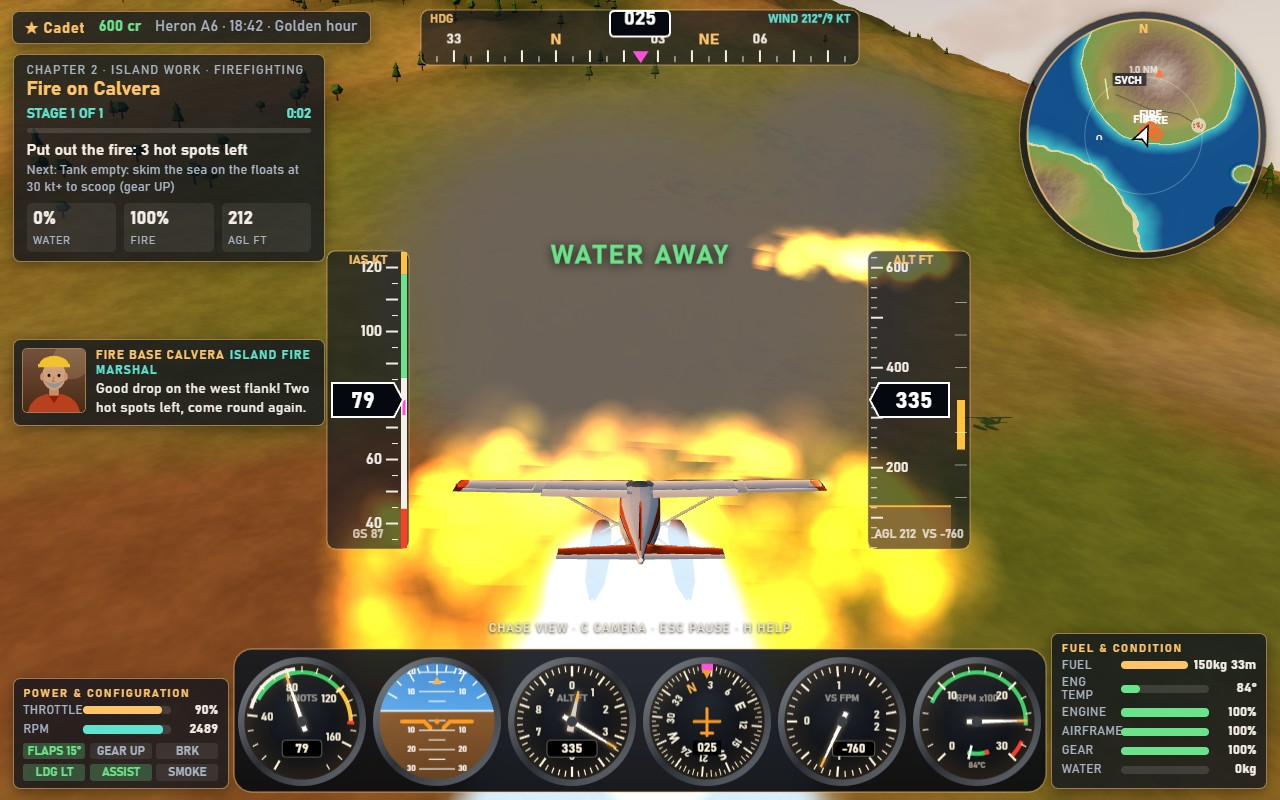
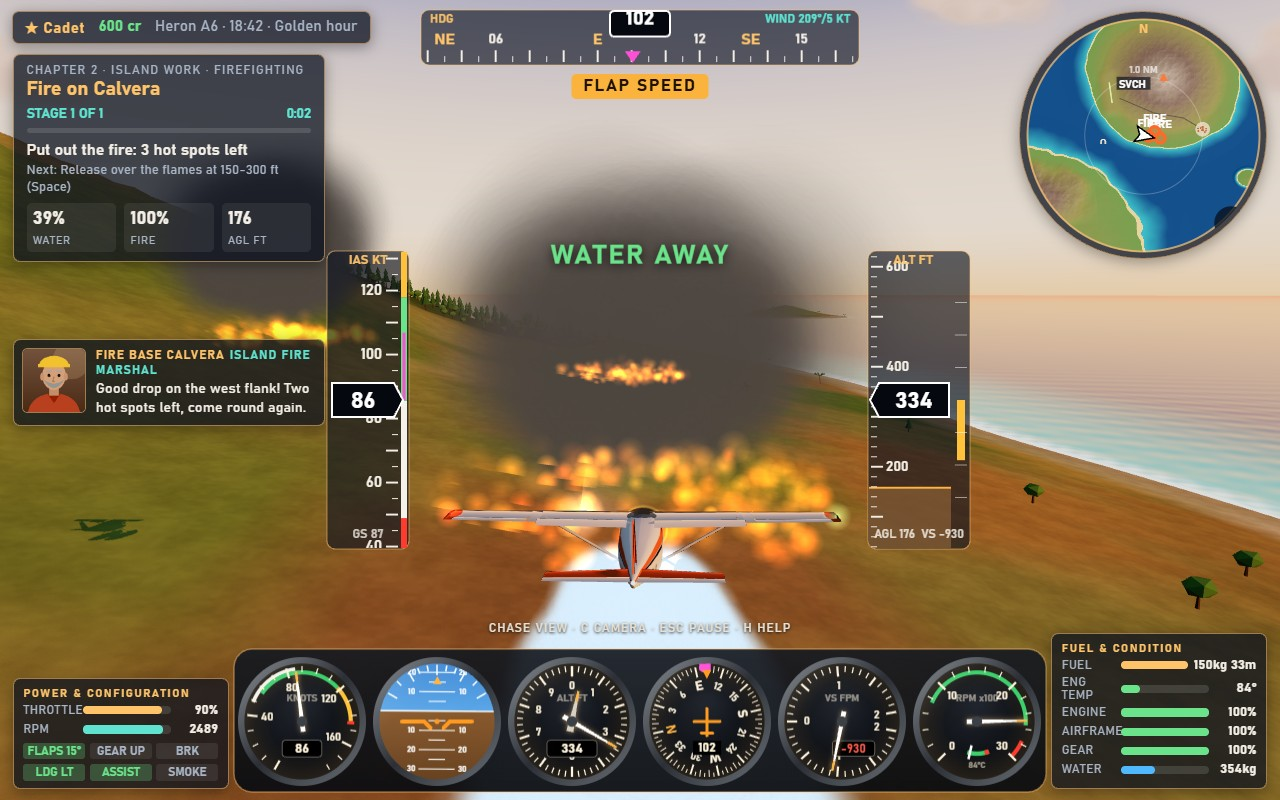
Firefight scene across the slope, softer flames and smoke, night and storm skies, heavier rain

diff --git a/game/src/effects/effectsDirector.js b/game/src/effects/effectsDirector.js
@@ -101,14 +101,15 @@ export function createEffectsDirector(scene, worldEmitters) {
       }
       for (const f of fires) {
         if (f.intensity <= 0.02) continue;
-        const n = dt * 90 * f.intensity;
+        const n = dt * 75 * f.intensity;
         for (let i = 0; i < n; i += 1) {
           const a = random() * Math.PI * 2;
           const r = Math.sqrt(random()) * f.radius;
-          fire.emit(f.x + Math.cos(a) * r, f.y + 3, f.z + Math.sin(a) * r, 0, 5 + random() * 6, 0, { life: 1.1 + random() * 0.9, size: 9 + random() * 9, grow: 3, alpha: 0.9, color: [1, 0.42 + random() * 0.35, 0.1], drag: 0.6, lift: 2.5 });
+          const hot = random();
+          fire.emit(f.x + Math.cos(a) * r, f.y + 2.5, f.z + Math.sin(a) * r, 0, 3.5 + random() * 6, 0, { life: 0.8 + random() * 0.9, size: 4 + random() * 6, grow: 2.5, alpha: 0.55 + hot * 0.25, color: [1, 0.3 + hot * 0.3, 0.05 + hot * 0.06], drag: 0.6, lift: 2.5 });
         }
         if (random() < dt * 12 * f.intensity) {
-          smoke.emit(f.x + (random() - 0.5) * f.radius, f.y + 14, f.z + (random() - 0.5) * f.radius, 0, 8 + random() * 4, 0, { life: 18, size: 14, grow: 8, alpha: 0.34, color: [0.42, 0.38, 0.35], drag: 0.25, lift: 0.4 });
+          smoke.emit(f.x + (random() - 0.5) * f.radius, f.y + 10, f.z + (random() - 0.5) * f.radius, 0, 8 + random() * 4, 0, { life: 18, size: 12, grow: 8, alpha: 0.3, color: [0.46, 0.42, 0.38], drag: 0.25, lift: 0.4 });
         }
       }
       for (const f of flares) {
@@ -123,9 +124,9 @@ export function createEffectsDirector(scene, worldEmitters) {
         }
       }
       if (rain > 0 && camera) {
-        const n = dt * 500 * rain;
+        const n = dt * 900 * rain;
         for (let i = 0; i < n; i += 1) {
-          water.emit(camera.position.x + (random() - 0.5) * 140, camera.position.y + 30 + random() * 20, camera.position.z + (random() - 0.5) * 140, wind.x, -28, wind.z, { life: 2, size: 0.18, grow: 0, alpha: 0.5, color: [0.8, 0.85, 0.95], drag: 0 });
+          water.emit(camera.position.x + (random() - 0.5) * 120, camera.position.y + 20 + random() * 25, camera.position.z + (random() - 0.5) * 120, wind.x, -30, wind.z, { life: 1.6, size: 0.45, grow: 0, alpha: 0.55, color: [0.78, 0.82, 0.9], drag: 0 });
         }
       }
       updateAircraft(body, dt, smokeOn);

diff --git a/game/src/core/screenshotScenes.js b/game/src/core/screenshotScenes.js
@@ -56,17 +56,25 @@ export function stageScreenshot(name, game) {
     const fire = { x: 3250, z: -1780 };
     const ground = Math.max(0, game.world.terrain.heightAt(fire.x, fire.z));
     for (let i = 0; i < 420; i += 1) game.effects.update(STEP, 700, game.wind.state.current, null, game.camera, false);
-    const heading = 25;
+    const heading = 100;
     const h = THREE.MathUtils.degToRad(heading);
-    const start = { x: fire.x - Math.sin(h) * 210, z: fire.z + Math.cos(h) * 210 };
-    session.simulation.start(session.spec, { x: start.x, y: ground + 58, z: start.z, heading, pitch: 2, speed: 43, flaps: 1, throttle: 0.9, gearDown: false }, { birds: false });
+    const start = { x: fire.x - Math.sin(h) * 280, z: fire.z + Math.cos(h) * 280 };
+    session.simulation.start(session.spec, { x: start.x, y: ground + 58, z: start.z, heading, pitch: 2, speed: 41, flaps: 0, throttle: 0.85, gearDown: false }, { birds: false });
     session.body.water = session.spec.waterCapacity;
-    game.controls.controls.throttle = 0.9;
-    Object.assign(game.cameras.chaseFraming, { height: 2.1, distance: 1.25, lookAhead: 60, lookUp: -6 });
-    run(game, 2.4, { 60: ['action'] });
+    game.controls.controls.throttle = 0.85;
+    Object.assign(game.cameras.chaseFraming, { height: 1.55, distance: 1.2, lookAhead: 150, lookUp: -2 });
+    run(game, 2.4, { 105: ['action'] });
     game.hud.radio.say('bruno', 'Good drop on the west flank! Two hot spots left, come round again.', { priority: true });
     game.hud.radio.hold();
     run(game, 0.2);
+  }
+  if (name === 'night' || name === 'storm') {
+    game.startMission(missionById(name === 'night' ? 'night-mail' : 'storm-approach'));
+    game.runner.skipTo(name === 'night' ? 2 : 0);
+    const spec = session.spec;
+    session.simulation.start(spec, { ...approachPlacement(spec, 'marenza', 1, 1400, { flaps: 2 }), throttle: 0.32 }, { birds: false });
+    game.controls.controls.throttle = 0.32;
+    run(game, 3);
   }
   if (game.state === 'flying') game.feedHud(0, true);
   game.render();

diff --git a/game/src/world/skyDome.js b/game/src/world/skyDome.js
@@ -20,13 +20,14 @@ uniform vec3 uHorizon;
 uniform vec3 uHaze;
 uniform float uSunSize;
 uniform float uNight;
+uniform float uWarm;
 varying vec3 vDir;
 #include <common>
 float hash(vec3 p) { return fract(sin(dot(p, vec3(12.9898, 78.233, 37.719))) * 43758.5453); }
 void main() {
   vec3 dir = normalize(vDir);
   float y = dir.y;
-  vec3 cream = mix(uHorizon, vec3(1.0, 0.93, 0.8), 0.55);
+  vec3 cream = mix(uHorizon, vec3(1.0, 0.93, 0.8), 0.55 * uWarm);
   vec3 col = mix(uHorizon, cream, smoothstep(-0.02, 0.1, y));
   col = mix(col, uZenith, smoothstep(0.06, 0.55, y));
   col = mix(col, uHaze, smoothstep(0.02, -0.12, y));
@@ -55,6 +56,7 @@ export function createSkyDome() {
     uHaze: { value: new THREE.Color('#e9b98f') },
     uSunSize: { value: 0.00022 },
     uNight: { value: 0 },
+    uWarm: { value: 1 },
   };
   const material = new THREE.ShaderMaterial({ uniforms, vertexShader: VERTEX, fragmentShader: FRAGMENT, side: THREE.BackSide, depthWrite: false, fog: false });
   const mesh = new THREE.Mesh(new THREE.SphereGeometry(30000, 48, 24), material);
@@ -73,6 +75,7 @@ export function createSkyDome() {
       uniforms.uHorizon.value.copy(light.skyHorizon);
       uniforms.uHaze.value.copy(light.fogColor);
       uniforms.uNight.value = light.night;
+      uniforms.uWarm.value = (1 - light.night) * (1 - light.storm * 0.9) * (light.name === 'midday' ? 0.3 : 1);
     },
   };
 }
